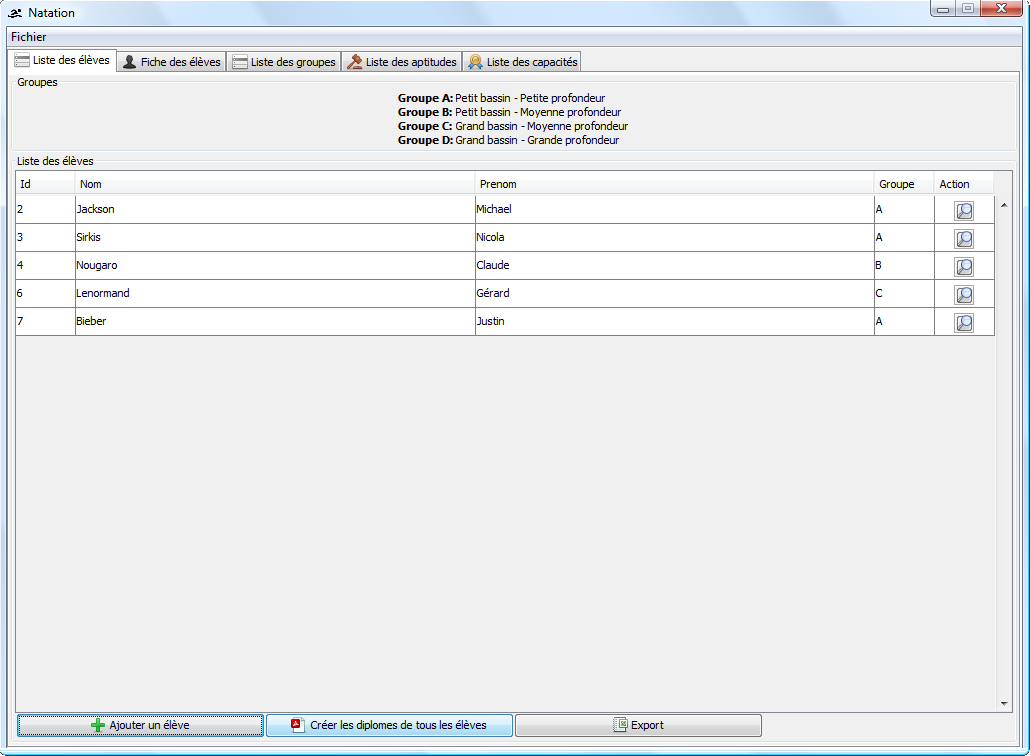
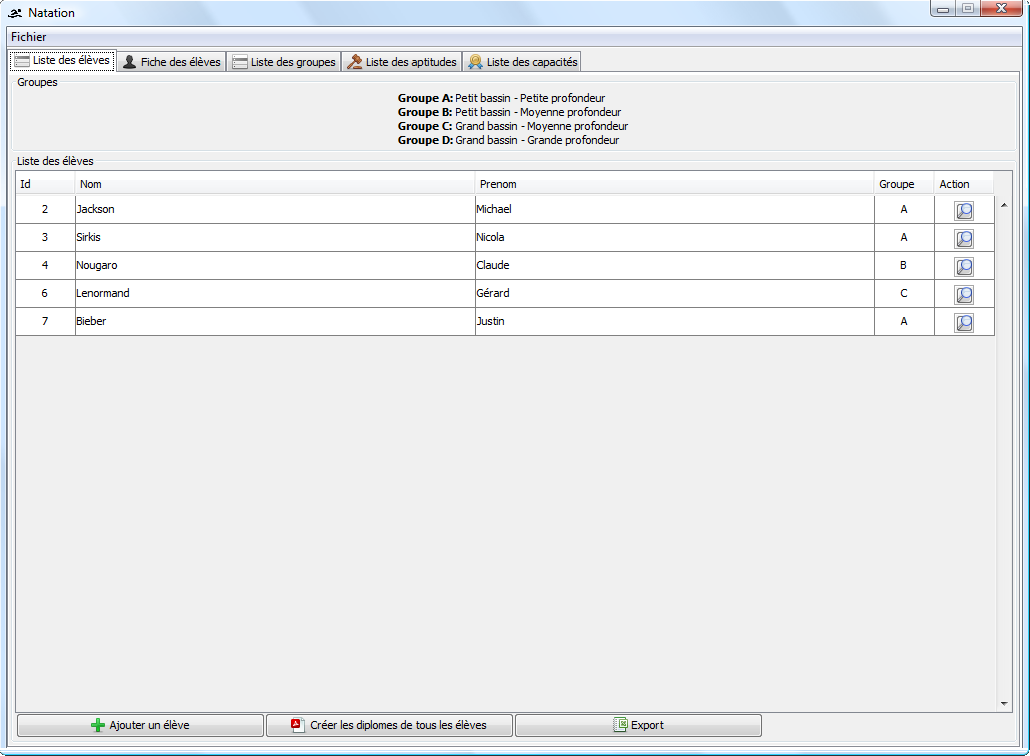
Maj capture

Changed region(s): [[0.0, 0.9431, 0.4971, 0.9735]]

diff --git a/src/fr/natation/view/eleve/EleveListPanel.java b/src/fr/natation/view/eleve/EleveListPanel.java
@@ -138,10 +138,15 @@ public class EleveListPanel extends ListPanel {
 
         DefaultTableCellRenderer renderer = new DefaultTableCellRenderer();
         renderer.setVerticalAlignment(JLabel.CENTER);
-        this.table.getColumnModel().getColumn(EleveTableModel.COLUMN_ID).setCellRenderer(renderer);
-        this.table.getColumnModel().getColumn(EleveTableModel.COLUMN_GROUPE).setCellRenderer(renderer);
         this.table.getColumnModel().getColumn(EleveTableModel.COLUMN_NOM).setCellRenderer(renderer);
         this.table.getColumnModel().getColumn(EleveTableModel.COLUMN_PRENOM).setCellRenderer(renderer);
+
+        renderer = new DefaultTableCellRenderer();
+        renderer.setVerticalAlignment(JLabel.CENTER);
+        renderer.setHorizontalAlignment(JLabel.CENTER);
+        this.table.getColumnModel().getColumn(EleveTableModel.COLUMN_ID).setCellRenderer(renderer);
+        this.table.getColumnModel().getColumn(EleveTableModel.COLUMN_GROUPE).setCellRenderer(renderer);
+
         this.setRowHeight(28);
 
     }
